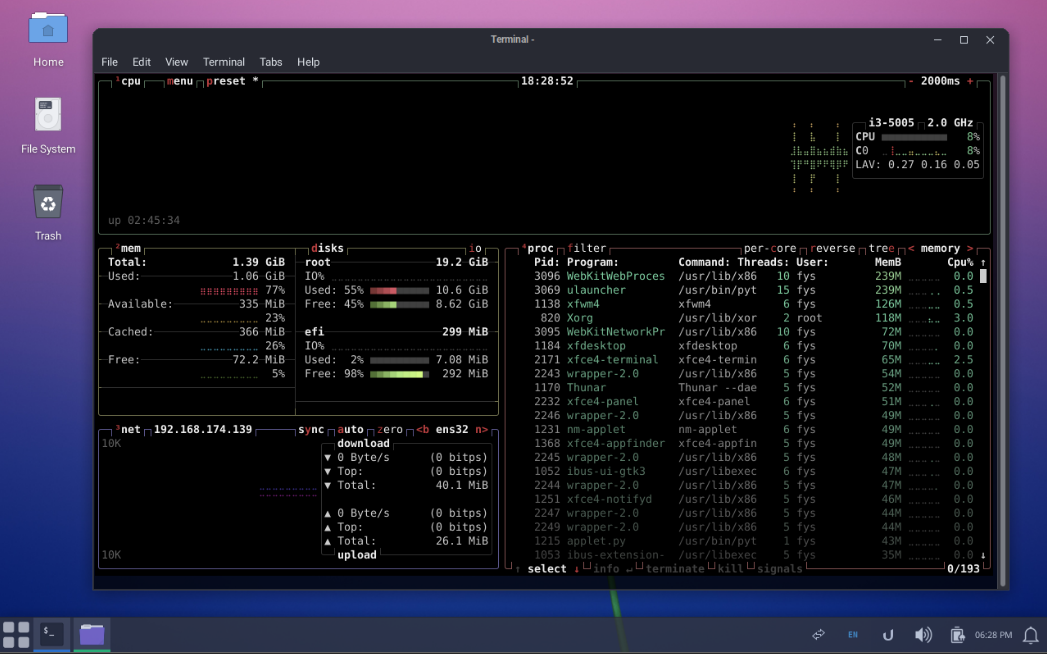
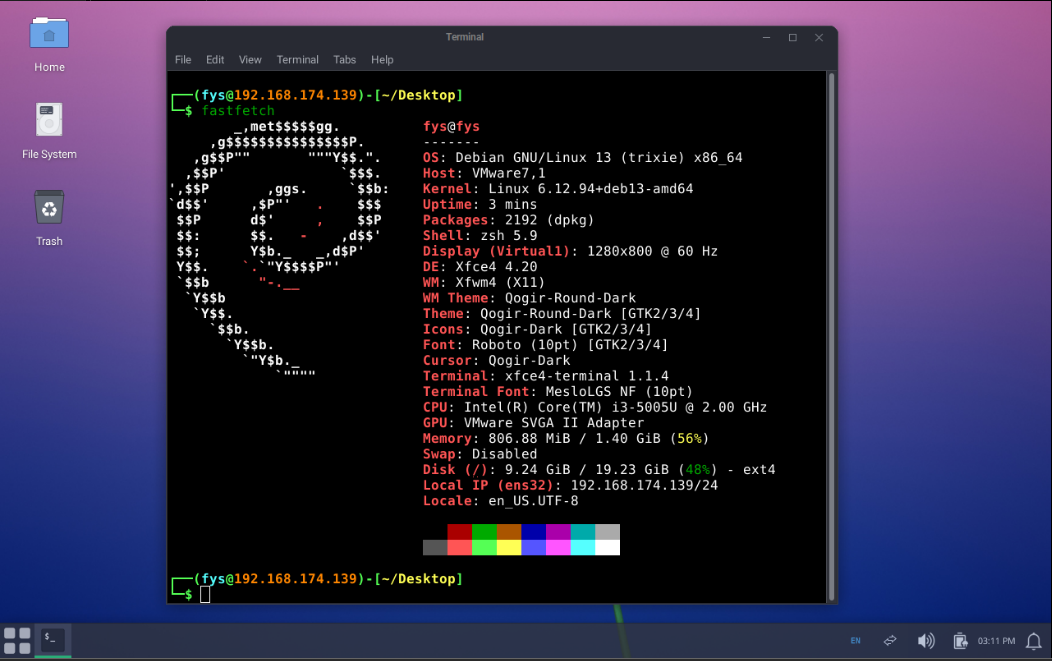
add: img

diff --git a/README.md b/README.md
@@ -12,11 +12,12 @@ curl -fsSL https://raw.githubusercontent.com/fiyosa/xfce-theme/master/install_de
 
 # Screenshots
 
-![Apply Theme and Icon](img/img1.png)
-![Set Wallpaper](img/img2.png)
-![Import Panel Profile](img/img3.png)
-![Set Start Menu Icon](img/img4.png)
-![Setup Ulauncher](img/img5.png)
+![Panel Desktop](img/img1.png)
+![Start Menu Icon](img/img2.png)
+![Setup Ulauncher](img/img3.png)
+![File Manager](img/img4.png)
+![Show Fastfetch](img/img5.png)
+![Show Btop](img/img6.png)
 
 # Manual GUI Setup
 
